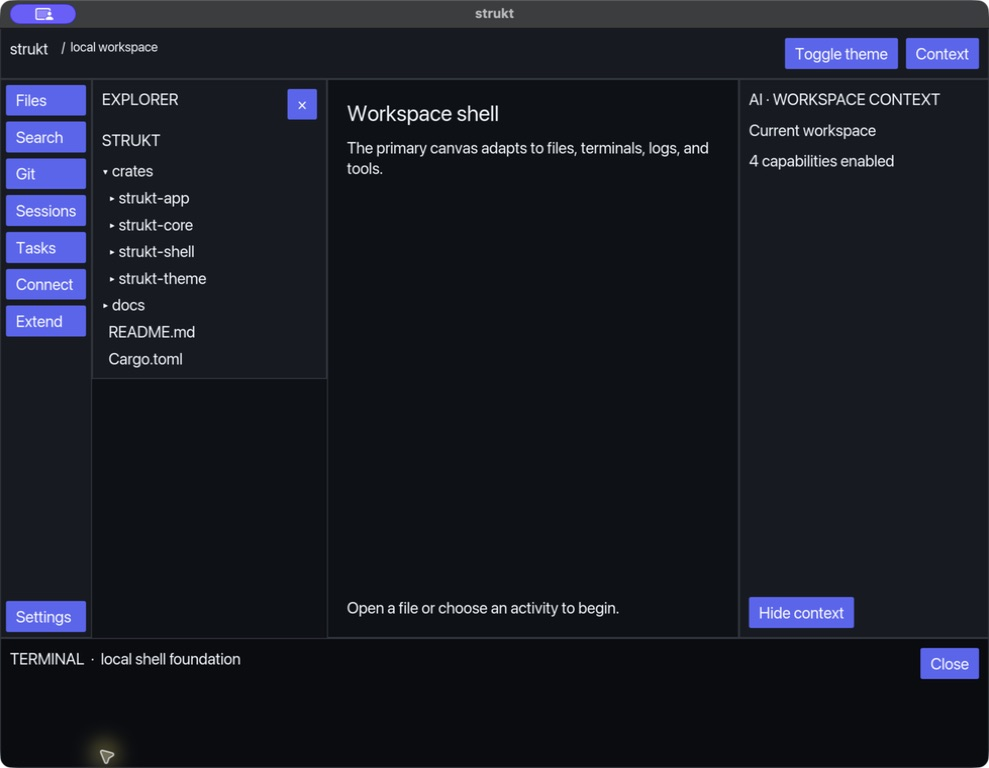
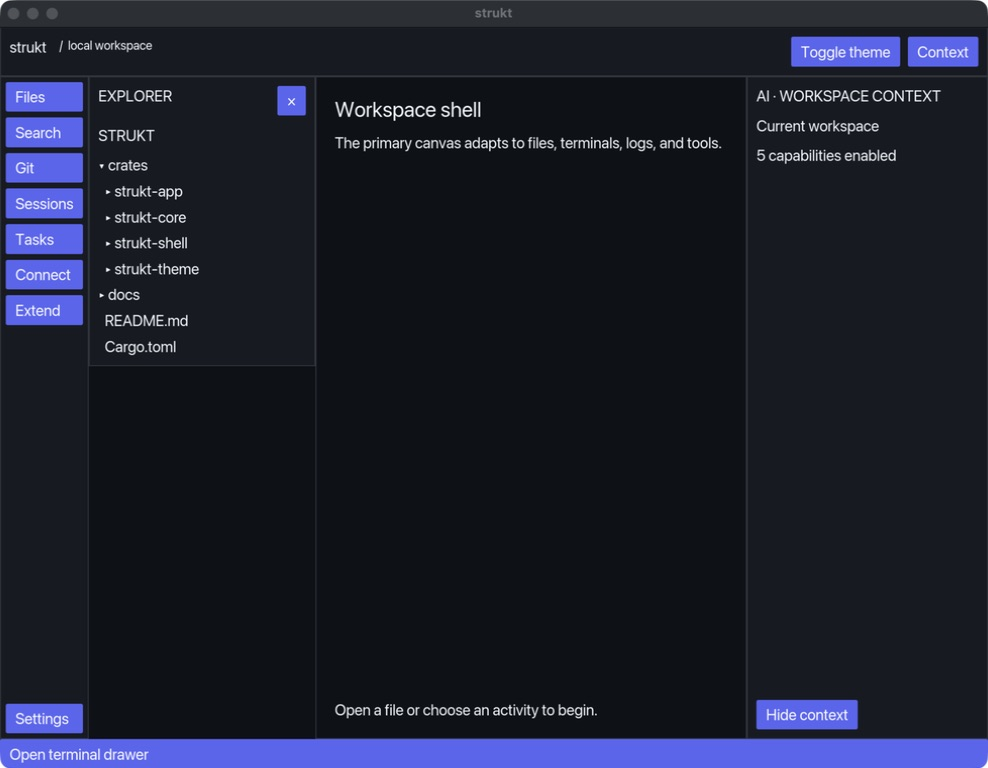
fix: report enabled capability count

diff --git a/crates/strukt-core/tests/capability_registry.rs b/crates/strukt-core/tests/capability_registry.rs
@@ -39,3 +39,20 @@ fn duplicate_registration_is_rejected() {
 
     assert_eq!(error, RegistryError::Duplicate(CapabilityId::FILES));
 }
+
+#[test]
+fn enabled_count_reflects_defaults_and_overrides() {
+    let mut registry = CapabilityRegistry::new();
+    registry
+        .register(CapabilityDescriptor::new(CapabilityId::FILES, true))
+        .unwrap();
+    registry
+        .register(CapabilityDescriptor::new(CapabilityId::AI, false))
+        .unwrap();
+
+    assert_eq!(registry.enabled_count(), 1);
+
+    registry.set_enabled(CapabilityId::AI, true).unwrap();
+
+    assert_eq!(registry.enabled_count(), 2);
+}

diff --git a/crates/strukt-core/src/capability.rs b/crates/strukt-core/src/capability.rs
@@ -94,6 +94,18 @@ impl CapabilityRegistry {
                 .unwrap_or(state.descriptor.enabled_by_default)
         })
     }
+
+    #[must_use]
+    pub fn enabled_count(&self) -> usize {
+        self.capabilities
+            .values()
+            .filter(|state| {
+                state
+                    .override_enabled
+                    .unwrap_or(state.descriptor.enabled_by_default)
+            })
+            .count()
+    }
 }
 
 #[derive(Clone, Copy, Debug, Eq, Error, PartialEq)]

diff --git a/crates/strukt-app/src/view.rs b/crates/strukt-app/src/view.rs
@@ -152,7 +152,10 @@ fn context_panel(app: &StruktApp, tokens: ThemeTokens) -> Element<'static, Messa
         column![
             text(ai_status),
             text("Current workspace"),
-            text("4 capabilities enabled"),
+            text(format!(
+                "{} capabilities enabled",
+                app.capabilities.enabled_count()
+            )),
             Space::new().height(Fill),
             button("Hide context").on_press(Message::ToggleContext),
         ]

diff --git a/docs/evidence/m1-native-shell-validation.md b/docs/evidence/m1-native-shell-validation.md
@@ -20,9 +20,9 @@ cargo check -p strukt-app --target x86_64-pc-windows-msvc
 cargo check -p strukt-app --target x86_64-unknown-linux-gnu
 ```
 
-The workspace contains ten passing tests:
+The workspace contains eleven passing tests:
 
-- three capability-registry tests
+- four capability-registry tests
 - two semantic-theme tests
 - three framework-independent shell-state tests
 - two native-application wiring tests
